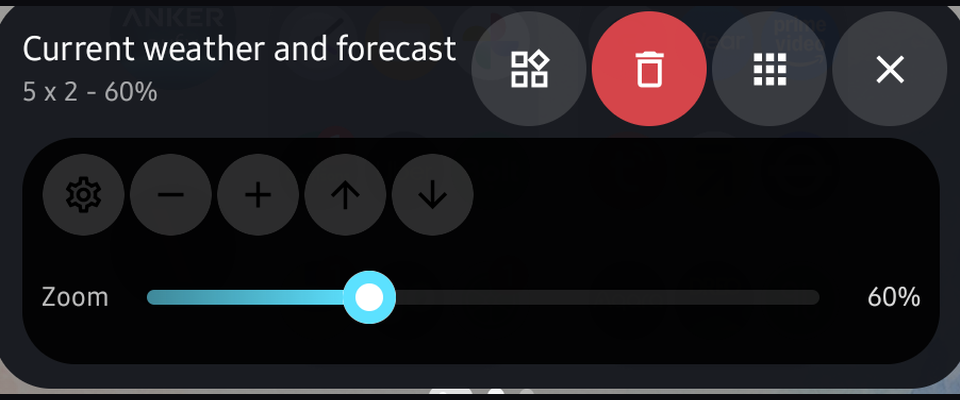
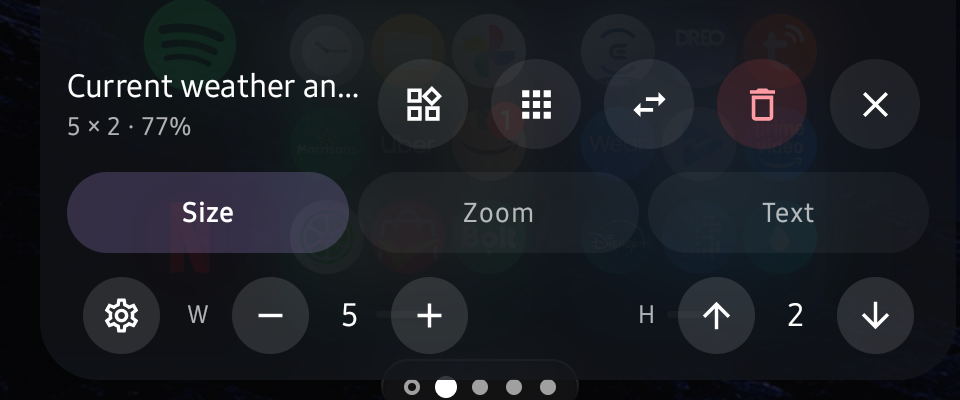
Site: the widget editor from the 15 Nov Fold capture in the Resize and scale slot (Size, Zoom and Text)

diff --git a/index.html b/index.html
@@ -299,9 +299,9 @@
 
       <figure class="trio-item wide">
         <div class="trio-media glow">
-          <img src="assets/widget-resize.png" alt="A widget's resize controls: its name and grid size, arrows to grow or shrink it, and a zoom slider set to 60 percent">
+          <img src="assets/widget-resize.png" width="960" height="400" alt="A widget's editor: its name and grid size, 5 by 2 at 77 percent, tabs for Size, Zoom and Text, and buttons to make it wider, narrower, taller or shorter">
         </div>
-        <figcaption><strong>Resize and scale</strong> Set the grid footprint, then scale the widget's contents to fit it instead of cropping them.</figcaption>
+        <figcaption><strong>Resize and scale</strong> Set the grid footprint, then scale the widget's contents, or only its text, to fit it instead of cropping them.</figcaption>
       </figure>
     </div>
   </section>
